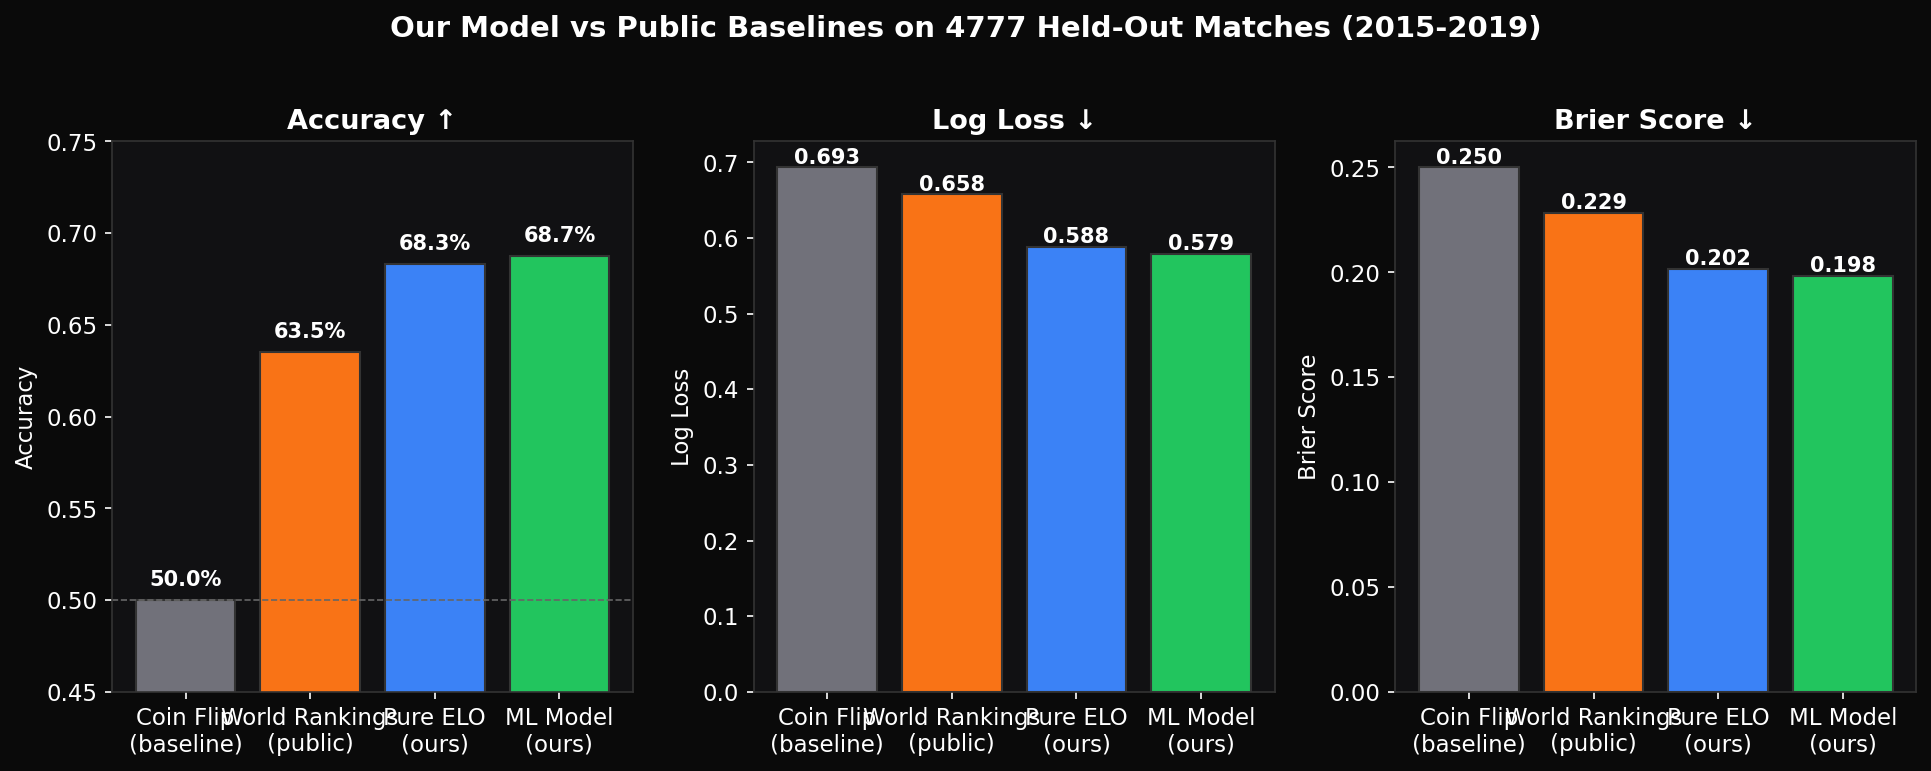
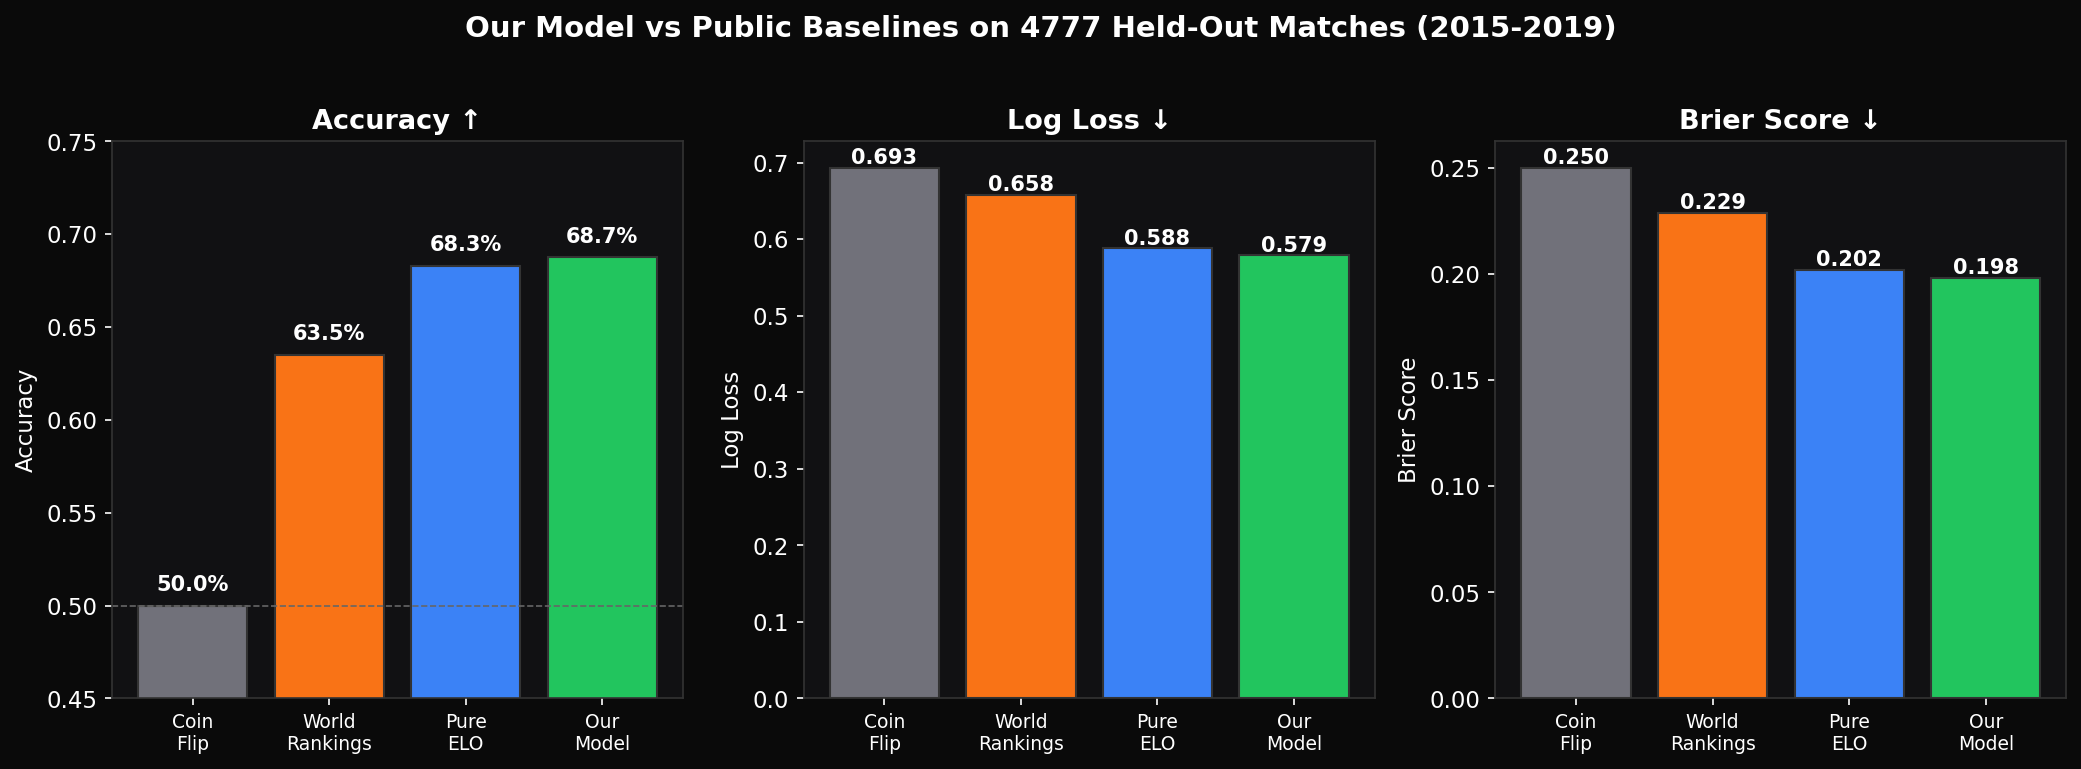
Fix README issues: benchmark plot labels, data section, performance table
- Rankings benchmark plot: shortened x-axis labels to prevent overlap
- Data section: added 2025-2026 season scrape (23 tournaments, April 2026)
- Performance table: updated match count to 117K, startup time to 0.12s,
  clarified MLE row ("replays all matches ~17 times to find optimal K and divisor")

diff --git a/scripts/generate_result_plots.py b/scripts/generate_result_plots.py
@@ -98,14 +98,14 @@ def plot_rankings_benchmark():
         data = json.load(f)
 
     methods_order = ["coin_flip", "world_rankings", "pure_elo", "our_model"]
-    labels = ["Coin Flip\n(baseline)", "World Rankings\n(public)", "Pure ELO\n(ours)", "ML Model\n(ours)"]
+    labels = ["Coin\nFlip", "World\nRankings", "Pure\nELO", "Our\nModel"]
     colors = [GRAY, ORANGE, BLUE, GREEN]
 
     accuracy = [data["methods"][m]["accuracy"] for m in methods_order]
     log_loss = [data["methods"][m]["log_loss"] for m in methods_order]
     brier = [data["methods"][m]["brier"] for m in methods_order]
 
-    fig, axes = plt.subplots(1, 3, figsize=(13, 5))
+    fig, axes = plt.subplots(1, 3, figsize=(14, 5))
 
     bars = axes[0].bar(labels, accuracy, color=colors, edgecolor="#333")
     axes[0].set_ylabel("Accuracy")
@@ -129,6 +129,9 @@ def plot_rankings_benchmark():
     for bar, val in zip(bars, brier):
         axes[2].text(bar.get_x() + bar.get_width()/2, val + 0.002,
                      f"{val:.3f}", ha="center", fontweight="bold", fontsize=10)
+
+    for ax in axes:
+        ax.tick_params(axis="x", labelsize=9)
 
     fig.suptitle(
         f"Our Model vs Public Baselines on {data['test_size']} Held-Out Matches (2015-2019)",

diff --git a/README.md b/README.md
@@ -207,6 +207,7 @@ Maximized using `scipy.optimize.minimize` over the full match history.
 
 - **1982-2020**: Kaggle dataset (cuetracker.net origin)
 - **2020-2025**: Scraped from cuetracker.net
+- **2025-2026 season**: 23 professional tournaments (World Championship, Masters, UK Championship, etc.) scraped April 2026
 - **Format**: `player1, player2, score1, score2, best_of, tournament_id, date, year`
 - Player1 is always the winner (`score1 >= score2`)
 
@@ -224,11 +225,11 @@ new = scrape_new_matches('data/raw/matches.csv', years=[2025, 2026])
 
 | Operation | Time |
 |-----------|------|
-| ELO: process 115K matches | 0.34s |
-| Glicko-2: process 115K matches | 2.1s |
+| ELO: process 117K matches | 0.27s |
+| Glicko-2: process 117K matches | 2.1s |
 | Feature generation (300 tournaments) | 5.7s |
-| Full API startup | 2.6s |
-| MLE optimization (ELO) | ~135s |
+| API startup (with precomputed cache) | 0.12s |
+| MLE parameter search (replays all matches ~17 times to find optimal K and divisor) | ~135s |
 
 ## Testing
 
